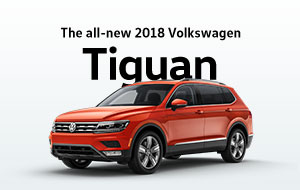
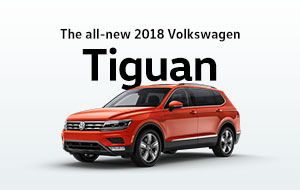
creative update

Changed region(s): [[0.12, 0.2368, 0.87, 0.9474], [0.18, 0.1316, 0.81, 0.2368]]

diff --git a/app/300x250/styles/_layout.scss b/app/300x250/styles/_layout.scss
@@ -118,8 +118,8 @@ body {
         position: absolute;
 
         #legal_txt {
-            left: 10px;
-            top: 10px;
+            left: 15px;
+            top: 15px;
             position: absolute;
         }
     }

diff --git a/app/300x600/styles/_layout.scss b/app/300x600/styles/_layout.scss
@@ -118,8 +118,8 @@ body {
         position: absolute;
 
         #legal_txt {
-            left: 10px;
-            top: 10px;
+            left: 15px;
+            top: 15px;
             position: absolute;
         }
     }

diff --git a/app/728x90/styles/_layout.scss b/app/728x90/styles/_layout.scss
@@ -128,8 +128,8 @@ body {
         position: absolute;
 
         #legal_txt {
-            left: 10px;
-            top: 10px;
+            left: 15px;
+            top: 13px;
             position: absolute;
         }
     }
